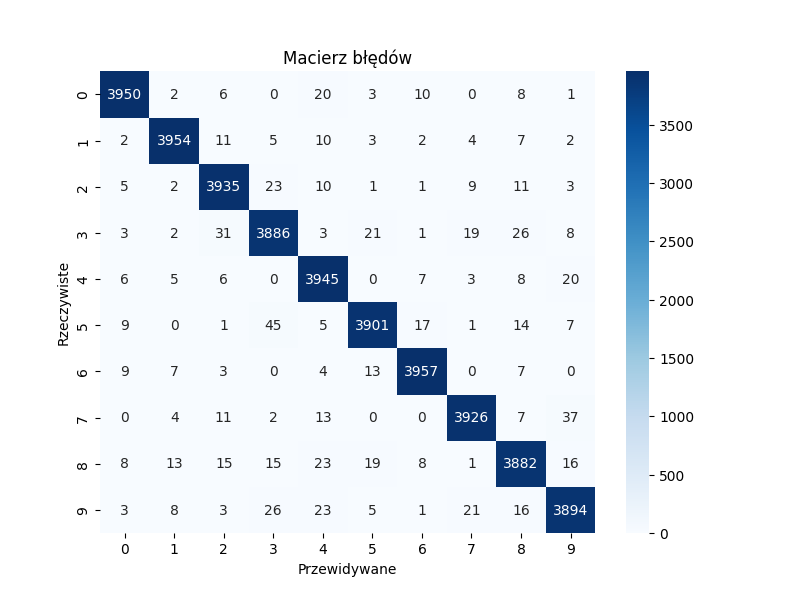
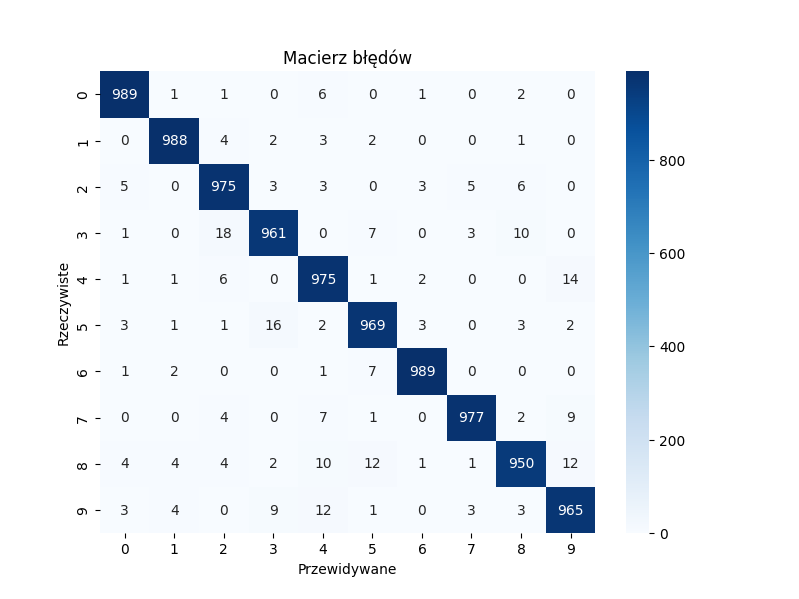
Update 2

diff --git a/Wprowadzenie Do Sztucznej Inteligencji/zad3.py b/Wprowadzenie Do Sztucznej Inteligencji/zad3.py
@@ -1,66 +1,53 @@
 import numpy as np
 import gzip
-import struct
-import matplotlib.pyplot as plt
 from sklearn.ensemble import RandomForestClassifier
-from sklearn.model_selection import train_test_split
-from sklearn.metrics import accuracy_score, classification_report, confusion_matrix
+from sklearn.metrics import classification_report, accuracy_score, confusion_matrix
+import matplotlib.pyplot as plt
 import seaborn as sns
 
-# Funkcja do wczytywania danych z formatu IDX (używanego w EMNIST)
-def load_images(filename):
-    with gzip.open(filename, 'rb') as f:
-        # Wczytujemy dane
-        f.read(4)  # Magic number
-        num_images = struct.unpack('>I', f.read(4))[0]
-        rows = struct.unpack('>I', f.read(4))[0]
-        cols = struct.unpack('>I', f.read(4))[0]
-        images = np.frombuffer(f.read(), dtype=np.uint8).reshape(num_images, rows * cols)
-    return images
+# Funkcja do wczytywania danych EMNIST MNIST
+def load_emnist_images(file_path):
+    with gzip.open(file_path, 'rb') as f:
+        return np.frombuffer(f.read(), np.uint8, offset=16).reshape(-1, 28, 28)
 
-def load_labels(filename):
-    with gzip.open(filename, 'rb') as f:
-        # Wczytujemy etykiety
-        f.read(4)  # Magic number
-        num_labels = struct.unpack('>I', f.read(4))[0]
-        labels = np.frombuffer(f.read(), dtype=np.uint8)
-    return labels
+def load_emnist_labels(file_path):
+    with gzip.open(file_path, 'rb') as f:
+        return np.frombuffer(f.read(), np.uint8, offset=8)
 
-# Ścieżki do danych EMNIST Digits
-train_images_path = 'emnist-digits-train-images-idx3-ubyte.gz'
-train_labels_path = 'emnist-digits-train-labels-idx1-ubyte.gz'
-test_images_path = 'emnist-digits-test-images-idx3-ubyte.gz'
-test_labels_path = 'emnist-digits-test-labels-idx1-ubyte.gz'
+# Wczytanie danych
+train_images = load_emnist_images('emnist-mnist-train-images-idx3-ubyte.gz')
+train_labels = load_emnist_labels('emnist-mnist-train-labels-idx1-ubyte.gz')
+test_images = load_emnist_images('emnist-mnist-test-images-idx3-ubyte.gz')
+test_labels = load_emnist_labels('emnist-mnist-test-labels-idx1-ubyte.gz')
 
-# Załaduj dane
-X_train = load_images(train_images_path)
-y_train = load_labels(train_labels_path)
-X_test = load_images(test_images_path)
-y_test = load_labels(test_labels_path)
+# Normalizacja danych
+train_images = train_images / 255.0
+test_images = test_images / 255.0
 
-# Podział na zbiór treningowy i testowy (jeśli dane są już podzielone, to ten krok można pominąć)
-X_train, X_val, y_train, y_val = train_test_split(X_train, y_train, test_size=0.2, random_state=42)
+# Przekształcenie obrazów 28x28 do jednego wektora o długości 784 (28*28)
+X_train = train_images.reshape(-1, 28 * 28)
+X_test = test_images.reshape(-1, 28 * 28)
 
-# Tworzymy klasyfikator Random Forest
-model = RandomForestClassifier(n_estimators=100, random_state=42)
+# Stworzenie klasyfikatora Random Forest
+rf_model = RandomForestClassifier(n_estimators=100, random_state=42)
 
-# Trenujemy model
-model.fit(X_train, y_train)
+# Trenowanie modelu
+rf_model.fit(X_train, train_labels)
 
 # Predykcja na zbiorze testowym
-y_pred = model.predict(X_test)
+y_pred = rf_model.predict(X_test)
 
-# Ocena modelu
-accuracy = accuracy_score(y_test, y_pred)
+# Ocena dokładności modelu
+accuracy = accuracy_score(test_labels, y_pred)
 print(f"Dokładność modelu: {accuracy:.4f}")
 
-# Raport z klasyfikacji
+# Raport klasyfikacji
 print("Raport klasyfikacji:")
-print(classification_report(y_test, y_pred))
+print(classification_report(test_labels, y_pred))
 
 # Macierz błędów
 plt.figure(figsize=(8, 6))
-sns.heatmap(confusion_matrix(y_test, y_pred), annot=True, fmt='d', cmap='Blues')
+sns.heatmap(confusion_matrix(test_labels, y_pred), annot=True, fmt='d', cmap='Blues')
 plt.title('Macierz błędów')
 plt.xlabel('Przewidywane')
 plt.ylabel('Rzeczywiste')
